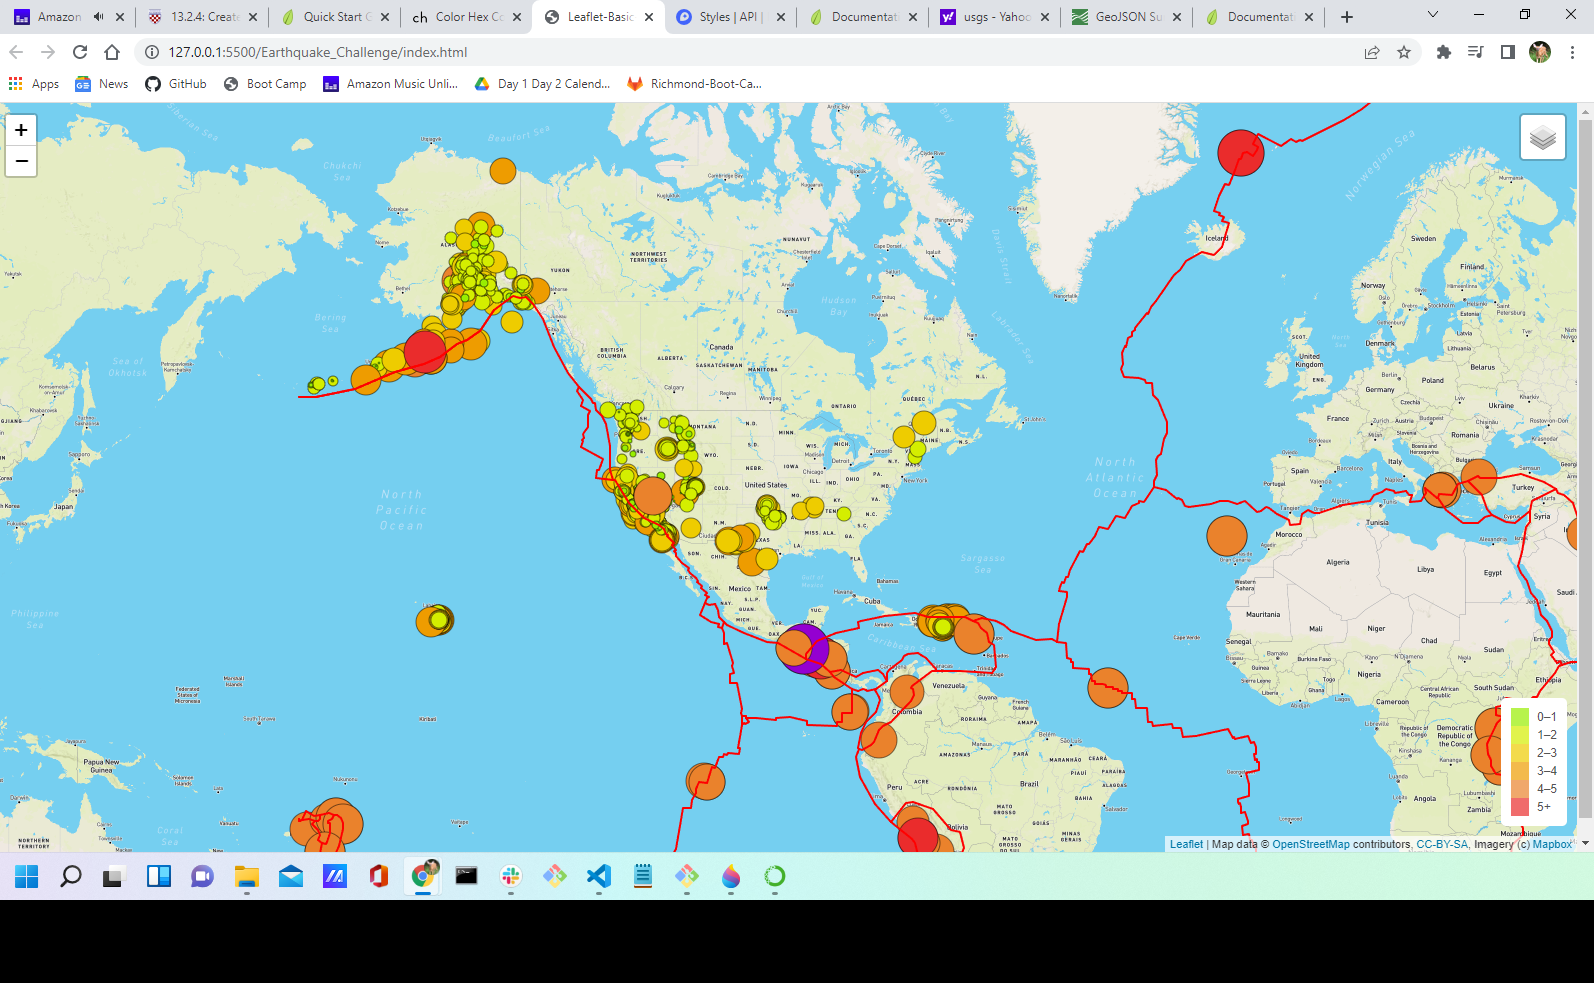
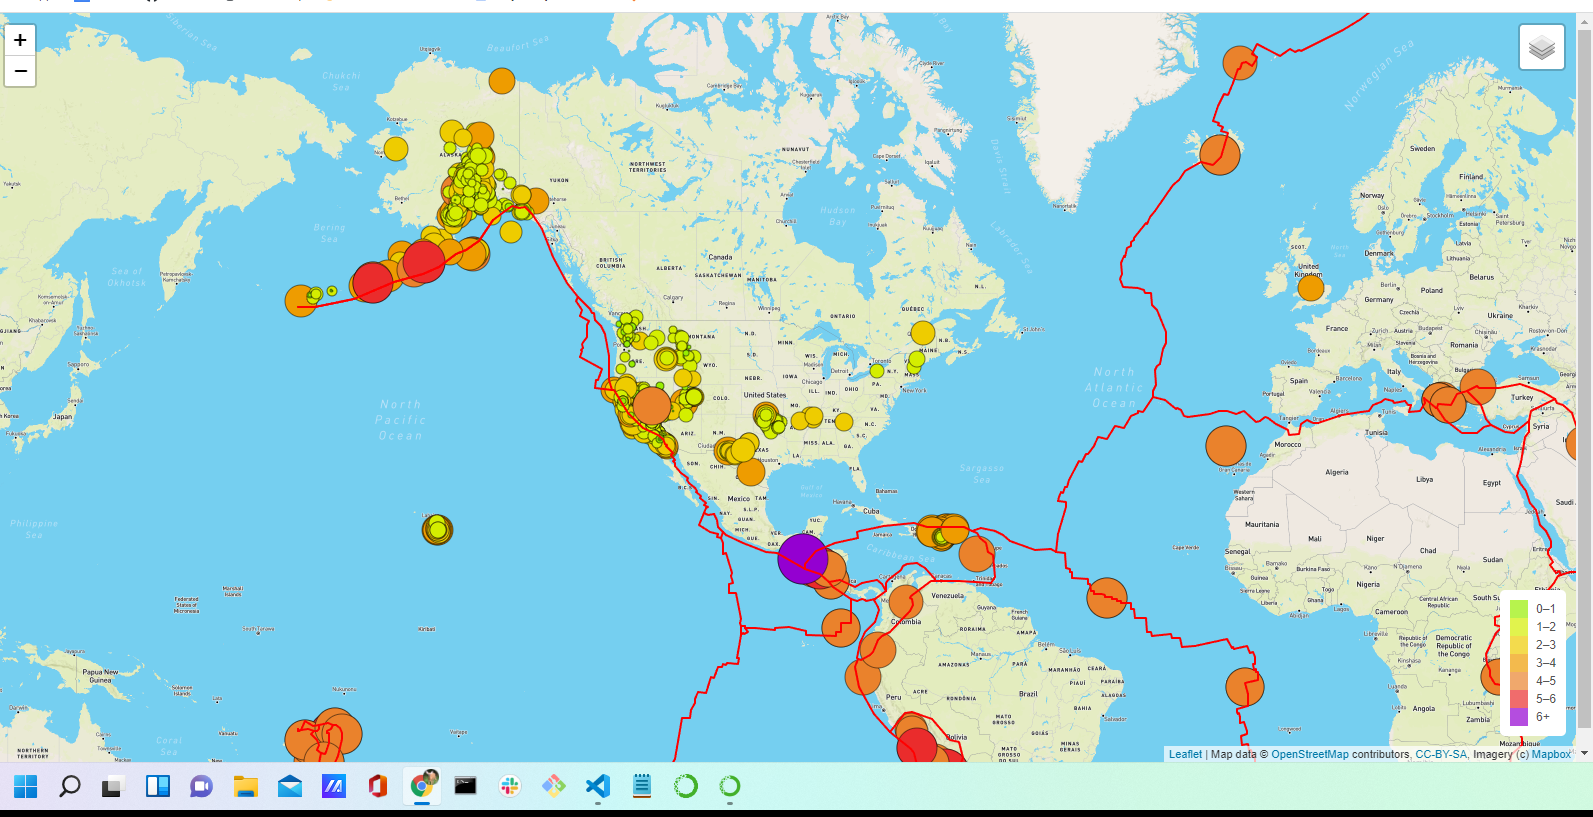
minor edits to code, updated image

diff --git a/Earthquake_Challenge/static/js/challenge_logic.js b/Earthquake_Challenge/static/js/challenge_logic.js
@@ -36,14 +36,14 @@ let baseMaps = {
   "Dark": dark
 };
 
-// 1. Add a 2nd layer group for the tectonic plate data.
+// 1. Add a 2nd layer group for the tectonic plate data, and a third layer for the major earthquakes
 let allEarthquakes = new L.LayerGroup();
 let tectonicPlates = new L.LayerGroup();
 let majorEQ = new L.LayerGroup();
 
 
 
-// 2. Add a reference to the tectonic plates group to the overlays object.
+// 2. Add a reference to the tectonic plates and major earthquakes groups to the overlays object.
 let overlays = {
   "Earthquakes": allEarthquakes,
   "Tectonic Plates": tectonicPlates,
@@ -73,8 +73,13 @@ d3.json("https://earthquake.usgs.gov/earthquakes/feed/v1.0/summary/all_week.geoj
   }
   
 
-  // This function determines the color of the marker based on the magnitude of the earthquake.
+  // This function determines the color of the marker based on the magnitude of the earthquake. I added a >6 range
+  // so that this one function could work for the earthquake layer and the major earthquake layer, and then the
+  //two layers are consistent when viewed separately or together
   function getColor(magnitude) {
+    if (magnitude > 6) {
+      return "#9400d1";
+    }
     if (magnitude > 5) {
       return "#ea2c2c";
     }
@@ -114,12 +119,12 @@ d3.json("https://earthquake.usgs.gov/earthquakes/feed/v1.0/summary/all_week.geoj
       		return L.circleMarker(latlng);
         },
       // We set the style for each circleMarker using our styleInfo function.
-    style: styleInfo,
-     // We create a popup for each circleMarker to display the magnitude and location of the earthquake
-     //  after the marker has been created and styled.
-     onEachFeature: function(feature, layer) {
-      layer.bindPopup("Magnitude: " + feature.properties.mag + "<br>Location: " + feature.properties.place);
-    }
+      style: styleInfo,
+      // We create a popup for each circleMarker to display the magnitude and location of the earthquake
+      //  after the marker has been created and styled.
+      onEachFeature: function(feature, layer) {
+        layer.bindPopup("Magnitude: " + feature.properties.mag + "<br>Location: " + feature.properties.place);
+      }
   }).addTo(allEarthquakes);
 
   // Then we add the earthquake layer to our map.
@@ -128,40 +133,18 @@ d3.json("https://earthquake.usgs.gov/earthquakes/feed/v1.0/summary/all_week.geoj
 
 // 3. Retrieve the major earthquake GeoJSON data >4.5 mag for the week.
 d3.json("https://earthquake.usgs.gov/earthquakes/feed/v1.0/summary/all_week.geojson").then(function(data) {
-  
-    
 
-
-
-  // 4. Use the same style as the earthquake data.
-  //This function sets the style differently for the earthquakes in the Major Earthquakes overlay
-  function styleInfoMajorEQ(feature) {
-    return {
-      opacity: 1,
-      fillOpacity: 1,
-      fillColor: getColor2(feature.properties.mag),
-      color: "#000000",
-      radius: getRadius(feature.properties.mag),
-      stroke: true,
-      weight: 0.5
-    };
-  }
-  
+  // 4. Use the same style as the earthquake data - use styleInfo function from above
+ 
   // 5. Change the color function to use three colors for the major earthquakes based on the magnitude of the earthquake.
   // This function determines the color of the marker based on the magnitude of the earthquake for major earthquakes.
-  function getColor2(magnitude) {
-    if (magnitude > 6) {
-      return "#9400d1"
-    }
-    if (magnitude > 5) {
-      return "#ea2c2c";
-    }
-    if (magnitude <=5) {
-      return "#ea822c";
-    }
-  }
-  
-  // 6. Use the function that determines the radius of the earthquake marker based on its magnitude. - call getRadius
+  //---I did this by simply adding a >6 range on the original getColor function, it makes the two earthquake layers consistent 
+  //with each other, and when the major earthquakes overlay is the only one toggled on it will only have the top three colors 
+  //(for magnitudes 4,5,6+) anyway since we are excluding any earthquakes below a magnitude of 4.5
+
+
+  // 6. Use the function that determines the radius of the earthquake marker based on its magnitude. - call getRadius. Nothing
+  //I can see in the instructions says to make the radius different here
   
   // 7. Creating a GeoJSON layer with the retrieved data that adds a circle to the map 
   // sets the style of the circle, and displays the magnitude and location of the earthquake
@@ -175,7 +158,7 @@ d3.json("https://earthquake.usgs.gov/earthquakes/feed/v1.0/summary/all_week.geoj
       return L.circleMarker(latlng);
       }
     },
-    style: styleInfoMajorEQ,
+    style: styleInfo,
     onEachFeature: function(feature, layer) {
       layer.bindPopup("Magnitude: " + feature.properties.mag + "<br>Location: " + feature.properties.place);
     }
@@ -193,7 +176,7 @@ d3.json("https://earthquake.usgs.gov/earthquakes/feed/v1.0/summary/all_week.geoj
 
 
 
-  // Here we create a legend control object.
+  // Here we create a legend control object. Note, I added a sixth color to reflect the addition to the markers for magnitude 6+
 let legend = L.control({
   position: "bottomright"
 });
@@ -202,14 +185,15 @@ let legend = L.control({
 legend.onAdd = function() {
   let div = L.DomUtil.create("div", "info legend");
 
-  const magnitudes = [0, 1, 2, 3, 4, 5];
+  const magnitudes = [0, 1, 2, 3, 4, 5, 6];
   const colors = [
     "#98ee00",
     "#d4ee00",
     "#eecc00",
     "#ee9c00",
     "#ea822c",
-    "#ea2c2c"
+    "#ea2c2c",
+    "#9400d1"
   ];
 
 // Looping through our intervals to generate a label with a colored square for each interval.
@@ -235,7 +219,7 @@ legend.onAdd = function() {
     color:"#ff0000",
     weight: 2
   }).addTo(tectonicPlates)
-  // Then we add the tecetonic plates layer to our map.
+  // Then we add the tectonic plates layer to our map.
   tectonicPlates.addTo(map);
 
 
